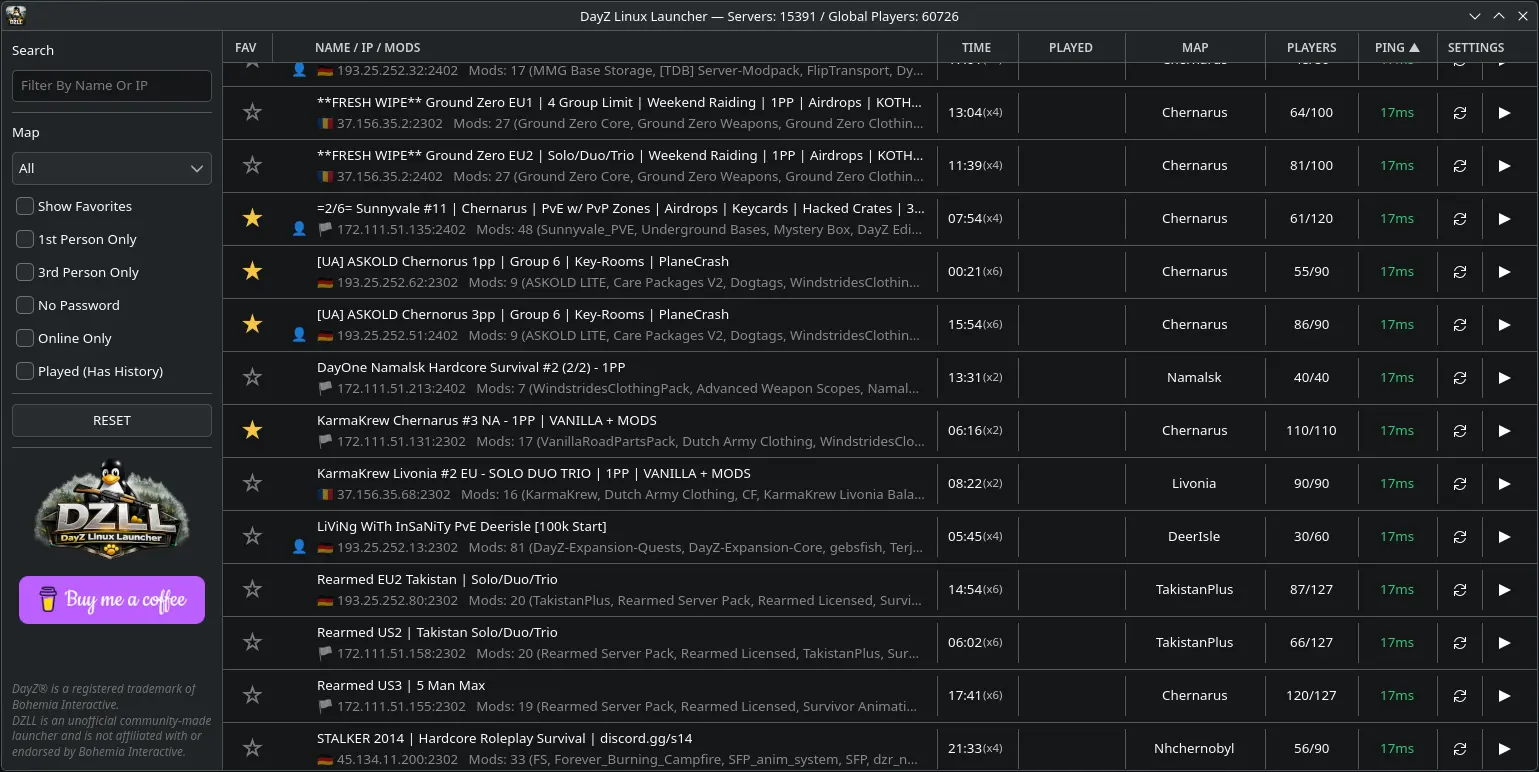
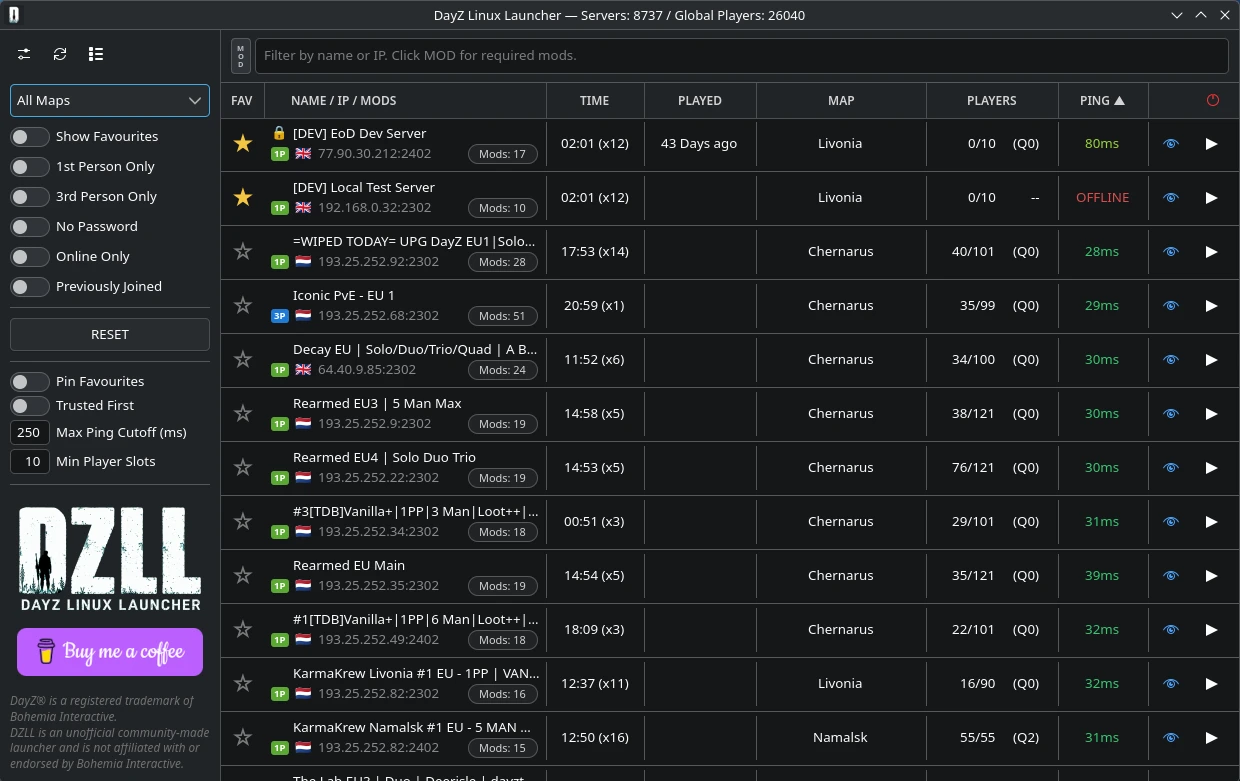
Update website for DZLL v0.3.0 beta

Changed region(s): [[0.0, 0.0, 1.0, 1.0], [0.7661, 0.1865, 0.7968, 0.2176]]

diff --git a/documentation.html b/documentation.html
@@ -4,20 +4,16 @@
 <head>
     <meta charset="utf-8">
     <meta name="viewport" content="width=device-width, initial-scale=1.0, shrink-to-fit=no">
-    <title>DZLL — DayZ Linux Launcher</title>
+    <title>DZLL v0.3.0 Beta — DayZ Linux Launcher</title>
     <link rel="canonical" href="https://dzllauncher.uk/documentation.html">
     <meta property="og:url" content="https://dzllauncher.uk/documentation.html">
-    <meta name="twitter:title" content="DZLL - DayZ Linux Launcher">
+    <meta name="twitter:title" content="DZLL v0.3.0 Beta - DayZ Linux Launcher">
     <meta name="twitter:card" content="summary_large_image">
     <meta property="og:type" content="website">
-    <meta name="twitter:description" content="DZLL is a Linux-first DayZ launcher with fast server browsing, smoother mod handling, SteamCMD integration, and optional suspicious server protection.">
+    <meta name="twitter:description" content="DZLL v0.3.0 Beta is free, source-available community software for Linux DayZ players, with native Steam Workshop mod handling.">
     <meta property="og:image" content="https://dzllauncher.uk/assets/img/OG-Banner.webp">
-    <meta name="description" content="DZLL is a clean, Linux-first DayZ launcher with fast server browsing, smoother mod handling, and open-source development.">
-    <link rel="icon" type="image/webp" sizes="412x403" href="assets/img/icon.webp">
-    <link rel="icon" type="image/webp" sizes="412x403" href="assets/img/icon.webp" media="(prefers-color-scheme: dark)">
-    <link rel="icon" type="image/webp" sizes="412x403" href="assets/img/icon.webp">
-    <link rel="icon" type="image/webp" sizes="412x403" href="assets/img/icon.webp" media="(prefers-color-scheme: dark)">
-    <link rel="icon" type="image/webp" sizes="412x403" href="assets/img/icon.webp">
+    <meta name="description" content="DZLL v0.3.0 Beta is a Linux-first DayZ launcher with native Steam Workshop mod handling and source-available community development.">
+    <link rel="icon" type="image/png" sizes="512x512" href="assets/img/dzll-icon.png">
     <link rel="stylesheet" href="assets/bootstrap/css/bootstrap.min.css">
     <link rel="stylesheet" href="assets/css/styles.min.css">
 </head>
@@ -25,21 +21,21 @@
 <body style="font-family: Exo, sans-serif;">
     <header class="site-header">
         <div class="container site-header-inner" style="font-family: Exo, sans-serif;"><a class="brand" href="index.html#">
-                <div class="brand-mark"><img width="42" height="42" src="assets/img/icon.webp" style="border-style: none;"></div>
+                <div class="brand-mark"><img width="42" height="42" src="assets/img/dzll-icon.png" style="border-style: none;"></div>
                 <div class="brand-text"><strong style="color: rgb(244, 247, 248);font-family: Exo, sans-serif;">DZLL</strong><span style="font-family: Exo, sans-serif;">DayZ Linux Launcher</span></div>
             </a>
             <nav class="nav"><a href="index.html#features">Features</a><a href="index.html#preview">Preview</a><a href="index.html#download">Download</a><a href="index.html#support">Support</a><a href="documentation.html">Documentation</a></nav>
-            <div class="header-actions"><a class="btn btn-secondary" role="button" href="https://github.com/Berry-Dingle/DayZ-Linux-Launcher" target="_blank" rel="noopener">GitHub</a><a class="btn btn-primary" role="button" href="https://github.com/Berry-Dingle/DayZ-Linux-Launcher/releases" target="_blank" rel="noopener">Download</a></div>
+            <div class="header-actions"><a class="btn btn-secondary" role="button" href="https://github.com/Berry-Dingle/DayZ-Linux-Launcher" target="_blank" rel="noopener">GitHub</a><a class="btn btn-primary" role="button" href="https://github.com/Berry-Dingle/DayZ-Linux-Launcher/releases/tag/v0.3.0-beta" target="_blank" rel="noopener">Download</a></div>
         </div>
     </header>
     <main id="top">
         <section class="hero">
             <div class="container">
                 <div class="hero-copy" style="font-family: Exo, sans-serif;">
-                    <div class="eyebrow"><span>Open source • Linux-first • StREAMLINED</span></div>
+                    <div class="eyebrow"><span>v0.3.0 Beta • Linux-first • StREAMLINED</span></div>
                     <h1>DayZ Linux Launcher (DZLL) Documentation</h1>
                     <p>This is the manual page for DayZ Linux Launcher, In this manual you will find everything you need<br>to use the app and find your favourite servers. </p>
-                    <div class="hero-actions"><a class="btn btn-primary" role="button" href="https://github.com/Berry-Dingle/DayZ-Linux-Launcher/releases" target="_blank" rel="noopener">Download DZLL</a><a class="btn btn-secondary" role="button" href="https://github.com/Berry-Dingle/DayZ-Linux-Launcher" target="_blank" rel="noopener">View on GitHub</a><a class="btn btn-subtle" role="button" href="https://buymeacoffee.com/berry.dingle" target="_blank" rel="noopener">Buy Me a Coffee</a></div>
+                    <div class="hero-actions"><a class="btn btn-primary" role="button" href="https://github.com/Berry-Dingle/DayZ-Linux-Launcher/releases/tag/v0.3.0-beta" target="_blank" rel="noopener">Download DZLL</a><a class="btn btn-secondary" role="button" href="https://github.com/Berry-Dingle/DayZ-Linux-Launcher" target="_blank" rel="noopener">View on GitHub</a><a class="btn btn-subtle" role="button" href="https://buymeacoffee.com/berry.dingle" target="_blank" rel="noopener">Buy Me a Coffee</a></div>
                     <div class="hero-meta"></div>
                 </div>
             </div>
@@ -54,15 +50,14 @@
                     <div>
                         <hr class="h-ruler">
                         <div class="eyebrow"><span><span style="color: rgb(244, 247, 248);">First Launch Overview</span></span></div>
-                        <p><br>When you start DZLL, it performs a short startup sequence:<br><br><strong>1. Loads your saved settings</strong>&nbsp;(filters, launch options, mod handling preferences, etc.).<br><strong>2. Loads the server database</strong>&nbsp;(servers.db) generated by DZLL-Forge.<br><strong>3. Fetches and loads the blocklist</strong>&nbsp;(blocklist.json, v2) used to hide or warn about suspicious servers (depending on your settings).<br><strong>4. Builds the server list UI</strong>&nbsp;and applies:<br><br></p>
+                        <p><br>When you start DZLL, it performs a short startup sequence:<br><br><strong>1. Loads your saved settings</strong>&nbsp;(filters, launch options, mod handling preferences, etc.).<br><strong>2. Loads the server database</strong>&nbsp;(servers.db) generated by DZLL-Forge.<br><strong>3. Builds the server list UI</strong>&nbsp;and applies:<br><br></p>
                         <ul>
                             <li>Search Text</li>
                             <li>Filter Toggles</li>
                             <li>Sort Mode</li>
                             <li>Favorites Filter (if enabled)</li>
-                            <li>Blocklist Visibility Rules (if enabled<br><br><br></li>
                         </ul>
-                        <div class="eyebrow"><span>Data Sources: Server DB and Blocklist</span></div>
+                        <div class="eyebrow"><span>Data Source: Curated Server Database</span></div>
                     </div>
                     <p><br><strong>Server database (servers.db)</strong><br>DZLL reads a prebuilt database created by <strong>DZLL-Forge</strong>. This DB contains:<br><br></p>
                     <ul>
@@ -74,17 +69,6 @@
                         <li><strong>Server Mod List</strong>&nbsp;(Workshop IDs + Names) When Available</li>
                         <li>DZLL does not scrape or “hunt” servers itself. It trusts the curated DB output</li>
                     </ul>
-                    <p><br><strong>Blocklist (blocklist.json v2)</strong><br>DZLL also loads a blocklist file used to classify servers as:<br><br></p>
-                    <ul>
-                        <li><strong>Allowed</strong></li>
-                        <li><strong>Soft-blocked</strong>&nbsp;(hidden when blocklist filtering is enabled)</li>
-                        <li><strong>Hard-blocked / IP-hard-blocked</strong>&nbsp;(always warns before joining if blocklist is loaded)</li>
-                    </ul>
-                    <p><br>Blocklist behavior is designed to be <strong>fail-open</strong>:<br><br></p>
-                    <ul>
-                        <li>If the blocklist can’t be fetched or parsed, DZLL still runs and shows servers normally</li>
-                    </ul>
-                    <div class="img-servers"><img class="cmd" src="assets/img/servers-bl-loaded.png" width="710" height="174"><span class="figure-desc">Fig 1. Example of the launcher populated with servers and blocklist loaded.<br><br><br><br></span></div>
                     <div class="eyebrow"><span>Main Window: Server List</span></div>
                     <p><br><strong>The main window is centered around the server list.</strong><br>Each row typically includes:<br><br></p>
                     <ul>
@@ -107,9 +91,9 @@
                         <li>quick lookup by server name/map</li>
                         <li>locating a specific IP:PORT quickly</li>
                     </ul>
-                    <p><strong>Exact IP:PORT search has a special role</strong> for blocked servers:<br><br></p>
+                    <p><strong>Exact IP:PORT search has a special role</strong> when you need to locate a specific server:<br><br></p>
                     <ul>
-                        <li>If blocklist filtering hides a server, typing the exact IP:PORT can reveal it (see Blocklist section below).<br><br><br><br></li>
+                        <li>Typing the exact IP:PORT can locate that server directly.<br><br><br><br></li>
                     </ul>
                     <div class="eyebrow"><span>Filters and Favorites</span></div>
                     <p><br><strong>Common filters</strong>DZLL supports several filter toggles (the exact set depends on your build, but commonly includes):<br><br></p>
@@ -132,6 +116,42 @@
                         <li>Keep your regular servers pinned by habit</li>
                     </ul>
                     <p>Favorites are saved locally and persist across restarts<br><br><br><br></p>
+                    <div class="eyebrow"><span>Installation and Requirements</span></div>
+                    <p><br>Download DZLL v0.3.0 Beta from <strong>GitHub Releases</strong>. Fedora RPM and Ubuntu DEB packages are included, with SHA256 checksums provided.<br><br></p>
+                    <ul>
+                        <li><strong>Native Steam</strong> with DayZ installed is required</li>
+                        <li>Flatpak Steam is unsupported</li>
+                        <li>Launch DayZ from Steam at least once before using DZLL</li>
+                        <li>SteamCMD is optional and only needed for Advanced SteamCMD Fallback troubleshooting</li>
+                        <li>Normal users should not need SteamCMD credentials</li>
+                    </ul>
+                    <div class="eyebrow"><span>Settings</span></div>
+                    <p><br>Settings can be adjusted later as your setup changes. Important options include:<br><br></p>
+                    <ul>
+                        <li>The <strong>Steam Client Workshop</strong> backend is the default and recommended mod handler</li>
+                        <li>Enabling <strong>Advanced SteamCMD Fallback</strong> reveals its troubleshooting settings</li>
+                        <li>Native Steam and Workshop path autodetection</li>
+                        <li><strong>Skip DayZ Launcher</strong> and <strong>Minimise DayZ Launcher</strong></li>
+                        <li>Additional launch parameters</li>
+                        <li>Server Companion visibility and behaviour</li>
+                    </ul>
+                    <div class="eyebrow"><span>Mod Manager</span></div>
+                    <p><br>Mod Manager shows locally detected Workshop mods and distinguishes subscribed Workshop content from local-only files.<br><br></p>
+                    <ul>
+                        <li>Unsubscribe selected Workshop mods</li>
+                        <li>Unsubscribe all confirmed Workshop mods</li>
+                        <li>Clean up verified local-only files</li>
+                    </ul>
+                    <p>Steam must be running and online for Workshop checks and management actions. Unsubscribing Workshop mods and cleaning up local-only files are separate operations. If Steam is offline or its state cannot be confirmed, DZLL does not treat the content as safe for cleanup.<br><br></p>
+                    <div class="eyebrow"><span>Server Companion</span></div>
+                    <p><br>Server Companion monitors the selected or joined server and can be shown alongside the server list.<br><br></p>
+                    <ul>
+                        <li>Shows live status, ping, players, and queue information where available</li>
+                        <li>Helps track server availability and restarts where detectable</li>
+                        <li>Can be docked or undocked</li>
+                        <li>Can offer a Join action from the companion panel when the server is available</li>
+                    </ul>
+                    <p>Restart and shutdown alerts depend on the server data available to DZLL and should not be treated as perfect detection.<br><br><br><br></p>
                     <div class="eyebrow"><span><span style="color: rgb(244, 247, 248);">Live Refresh and Updating the List</span></span></div>
                     <p><br><strong>DZLL refreshes and updates in a way designed to avoid UI jitter and “list jumping”.</strong><br>Typical behavior:<br><br></p>
                     <ul>
@@ -140,59 +160,29 @@
                         <li>If a server becomes unavailable/offline, DZLL reflects that in its display.</li>
                     </ul>
                     <p>If your build shows “counts in title bar” (servers loaded / players online), these update when refresh updates are applied.<br><br><br><br></p>
-                    <div class="eyebrow"><span>Blocklist: Hiding and Warnings</span></div>
-                    <p><br>The blocklist is designed to protect users from suspicious servers while still allowing power-users to override intentionally<br><br><strong>Blocklist filtering</strong><br>If <strong>Enable Blocklist Filtering</strong> is ON:<br><br></p>
-                    <ul>
-                        <li>Soft-blocked and hard-blocked servers are hidden from the list</li>
-                    </ul>
-                    <p>If it’s OFF:<br><br></p>
-                    <ul>
-                        <li>The list behaves normally (servers are shown)</li>
-                    </ul>
-                    <p><strong>Exact IP:PORT reveal</strong>Even if a server is hidden by blocklist filtering:<br><br></p>
-                    <ul>
-                        <li>typing the exact IP:PORT into search can reveal it</li>
-                    </ul>
-                    <p>This is intended as an “I know what I’m doing” escape hatch<br><br><strong>Join warnings (hard / ip-hard)</strong><br>If the blocklist is loaded and DZLL classifies the selected server as:<br><br></p>
-                    <ul>
-                        <li><strong>Hard-blocked</strong>, or</li>
-                        <li>IP-hard-blocked</li>
-                    </ul>
-                    <p>Then DZLL will show a warning overlay <strong>every time you press Join</strong><br><br></p>
-                    <ul>
-                        <li>You can <strong>Cancel</strong> to back out</li>
-                        <li>You can <strong>Join anyway</strong> if you accept the risk<br><br></li>
-                    </ul><img class="cmd" src="assets/img/warning-box.png" width="356" height="260"><span class="figure-desc">Fig 3. An example of the warning overlay for suspicious servers<br><br><br><br></span>
                     <div class="eyebrow"><span>Joining a Server: End-to-End Workflow</span></div>
                     <p><br>When you press <strong>Join</strong>, DZLL runs a “preflight” and then performs the join flow.<br><br><strong>Join preflight</strong><br>DZLL checks:<br><br></p>
                     <ul>
                         <li>The server address is valid (IP:PORT)</li>
-                        <li>The server isn’t blocked (or you confirmed the warning if it is)</li>
                         <li>Whether mod handling is required (server has mod list and mod handling is enabled)</li>
-                        <li>Whether Steam / DayZ launch prerequisites are present (as applicable)</li>
+                        <li>Native Steam is installed and available (required; Flatpak Steam is unsupported)</li>
                     </ul>
                     <p><strong>If the server has no mods (or mod handling is disabled)</strong><br>DZLL launches DayZ via Steam using a connect string:<br><br></p>
                     <ul>
                         <li>Steam starts DayZ</li>
-                        <li>DayZ joins the server using -connect=IP:PORT (and related params), after user clicks play<br>in the DayZ official launcher.<br><br></li>
+                        <li>DZLL launches DayZ through native Steam using the server connect parameters. In normal use DZLL can skip the official DayZ Launcher; if you change the Launch settings, DZLL can use or minimise the DayZ Launcher as part of the launch flow.<br><br></li>
                     </ul>
                     <p><strong>If the server requires mods (mod handling enabled)</strong><br>DZLL runs the <strong>mod workflow</strong>:<br><br></p>
                     <ul>
                         <li>Reads required mod list for the server (Workshop IDs)</li>
-                        <li>Uses <strong>SteamCMD</strong> to download/update the required Workshop mods</li>
+                        <li>Uses the <strong>Steam Client Workshop backend</strong> by default to download/update required mods</li>
                         <li>Builds <strong>symlinks</strong> in the DayZ Launcher “watch folder” inside the Proton prefix</li>
-                        <li>Ensures DayZ Launcher preset/state is ready (so the DayZ Launcher detects mods properly)</li>
+                        <li>Prepares the launcher/watch-folder state for compatibility with the required mod setup and launcher-related settings</li>
                         <li>Launches DayZ with the server connect details</li>
                     </ul>
-                    <p>The goal is to reliably match the way the official DayZ Launcher expects mods to be discovered/loaded on Proton<br><br></p>
-                    <div class="join-flow">
-                        <div class="row text-center cmd-row">
-                            <div class="col col-xl-5"><img class="img-fluid float-start cmd" src="assets/img/cmd-login.png">
-                                <div class="cmd-img-txt"><span class="figure-desc"><br><br>Fig 4. An example of the SteamCMD Login Panel<br><br><br><br></span></div>
-                            </div>
-                            <div class="col col-xl-7"><img class="img-fluid float-start cmd" src="assets/img/cmd-mod-install.png"><span class="figure-desc">Fig 5. SteamCMD mod downloads<br><br><br><br></span></div>
-                        </div>
-                    </div>
+                    <p>The goal is to reliably match the way the official DayZ Launcher expects mods to be discovered/loaded on Proton. Users normally do not need SteamCMD credentials.<br><br></p>
+                    <div class="eyebrow"><span>Advanced Troubleshooting Fallback</span></div>
+                    <p><br>SteamCMD is not the normal or recommended backend. Use it only when native Steam Workshop handling cannot resolve a specific issue. SteamCMD credentials may be requested only for this optional fallback path; they are not part of normal setup.<br><br></p>
                 </div>
             </div>
         </section>
@@ -201,7 +191,7 @@
                 <div class="support-card">
                     <div class="eyebrow"><span>Support</span></div>
                     <h2>Support Development</h2>
-                    <p style="max-width:70ch;margin-top:16px;"> DZLL is free and open source. If you find it useful and want to help keep development moving, you can support the project with a donation or star the repository on GitHub. </p>
+                    <p style="max-width:70ch;margin-top:16px;"> DZLL is free, source-available community software licensed under the DZLL Community Source Licence v1.0. It may not be sold, paywalled, monetised, bundled into paid services, or used for paid server promotion, paid placement, advertising, affiliate schemes, or referral schemes. Modified versions must remain free, include the licence, keep attribution, and clearly state that they are unofficial. </p>
                     <div class="support-actions" style="margin-top:24px;"><a class="btn btn-primary" role="button" href="https://buymeacoffee.com/berry.dingle" target="_blank" rel="noopener">Buy Me a Coffee</a><a class="btn btn-secondary" role="button" href="https://github.com/Berry-Dingle/DayZ-Linux-Launcher" target="_blank" rel="noopener">Star on GitHub</a></div>
                 </div>
             </div>
@@ -209,7 +199,7 @@
     </main>
     <footer class="site-footer">
         <div class="container footer-inner">
-            <div class="footer-brand"><strong>DZLL</strong><span>DayZ Linux Launcher • Built for Linux DayZ Players</span><span class="copyright">© 2026 DZLL. Free and Open Source.</span></div>
+            <div class="footer-brand"><strong>DZLL</strong><span>DayZ Linux Launcher • v0.3.0 Beta</span><span class="copyright">© 2026 DZLL. Free, source-available community software.</span><small style="display:block;max-width:75ch;margin-top:12px;color:var(--soft);">DZLL is an independent community project and is not affiliated with, endorsed by, sponsored by, or authorized by Bohemia Interactive a.s. Bohemia Interactive, DAYZ, and all associated logos and designs are trademarks or registered trademarks of Bohemia Interactive a.s. All other trademarks are the property of their respective owners.</small></div>
             <div class="footer-links"><a href="https://dzllauncher.uk" target="_blank" rel="noopener">dzllauncher.uk</a><a href="https://github.com/Berry-Dingle/dzllauncher.uk" target="_blank" rel="noopener">Site Repo</a><a href="https://github.com/Berry-Dingle/DayZ-Linux-Launcher" target="_blank" rel="noopener">DZLL Repo</a><a href="https://buymeacoffee.com/berry.dingle" target="_blank" rel="noopener">Buy Me a Coffee</a></div>
         </div>
     </footer>

diff --git a/index.html b/index.html
@@ -4,15 +4,15 @@
 <head>
     <meta charset="utf-8">
     <meta name="viewport" content="width=device-width, initial-scale=1.0, shrink-to-fit=no">
-    <title>DZLL — DayZ Linux Launcher</title>
+    <title>DZLL v0.3.0 Beta — DayZ Linux Launcher</title>
     <link rel="canonical" href="https://dzllauncher.uk/">
     <meta property="og:url" content="https://dzllauncher.uk/">
-    <meta name="twitter:title" content="DZLL - DayZ Linux Launcher">
+    <meta name="twitter:title" content="DZLL v0.3.0 Beta - DayZ Linux Launcher">
     <meta name="twitter:card" content="summary_large_image">
     <meta property="og:type" content="website">
-    <meta name="twitter:description" content="DZLL is a Linux-first DayZ launcher with fast server browsing, smoother mod handling, SteamCMD integration, and optional suspicious server protection.">
+    <meta name="twitter:description" content="DZLL v0.3.0 Beta is free, source-available community software for Linux DayZ players, with native Steam Workshop mod handling.">
     <meta property="og:image" content="https://dzllauncher.uk/assets/img/OG-Banner.webp">
-    <meta name="description" content="DZLL is a clean, Linux-first DayZ launcher with fast server browsing, smoother mod handling, and open-source development.">
+    <meta name="description" content="DZLL v0.3.0 Beta is a Linux-first DayZ launcher with native Steam Workshop mod handling, fast server browsing, and source-available community development.">
     <script type="application/ld+json">
         {
             "@context": "http://schema.org",
@@ -21,11 +21,7 @@
             "url": "https://dzllauncher.uk/"
         }
     </script>
-    <link rel="icon" type="image/webp" sizes="412x403" href="assets/img/icon.webp">
-    <link rel="icon" type="image/webp" sizes="412x403" href="assets/img/icon.webp" media="(prefers-color-scheme: dark)">
-    <link rel="icon" type="image/webp" sizes="412x403" href="assets/img/icon.webp">
-    <link rel="icon" type="image/webp" sizes="412x403" href="assets/img/icon.webp" media="(prefers-color-scheme: dark)">
-    <link rel="icon" type="image/webp" sizes="412x403" href="assets/img/icon.webp">
+    <link rel="icon" type="image/png" sizes="512x512" href="assets/img/dzll-icon.png">
     <link rel="stylesheet" href="assets/bootstrap/css/bootstrap.min.css">
     <link rel="stylesheet" href="assets/css/styles.min.css">
 </head>
@@ -33,22 +29,22 @@
 <body style="font-family: Exo, sans-serif;">
     <header class="site-header">
         <div class="container site-header-inner" style="font-family: Exo, sans-serif;"><a class="brand" href="#">
-                <div class="brand-mark"><img width="42" height="42" src="assets/img/icon.webp" style="border-style: none;"></div>
+                <div class="brand-mark"><img width="42" height="42" src="assets/img/dzll-icon.png" style="border-style: none;"></div>
                 <div class="brand-text"><strong style="color: rgb(244, 247, 248);font-family: Exo, sans-serif;">DZLL</strong><span style="font-family: Exo, sans-serif;">DayZ Linux Launcher</span></div>
             </a>
             <nav class="nav"><a href="#features">Features</a><a href="#preview">Preview</a><a href="#download">Download</a><a href="#support">Support</a><a href="documentation.html">Documentation</a></nav>
-            <div class="header-actions"><a class="btn btn-secondary" role="button" href="https://github.com/Berry-Dingle/DayZ-Linux-Launcher" target="_blank" rel="noopener">GitHub</a><a class="btn btn-primary" role="button" href="https://github.com/Berry-Dingle/DayZ-Linux-Launcher/releases" target="_blank" rel="noopener">Download</a></div>
+            <div class="header-actions"><a class="btn btn-secondary" role="button" href="https://github.com/Berry-Dingle/DayZ-Linux-Launcher" target="_blank" rel="noopener">GitHub</a><a class="btn btn-primary" role="button" href="https://github.com/Berry-Dingle/DayZ-Linux-Launcher/releases/tag/v0.3.0-beta" target="_blank" rel="noopener">Download</a></div>
         </div>
     </header>
     <main id="top">
         <section class="hero">
             <div class="container">
                 <div class="hero-copy" style="font-family: Exo, sans-serif;">
-                    <div class="eyebrow"><span>Open source • Linux-first • StREAMLINED</span></div>
+                    <div class="eyebrow"><span>v0.3.0 Beta • Linux-first • StREAMLINED</span></div>
                     <h1>The DayZ Launcher Linux Players Deserve</h1>
-                    <p> Browse servers, handle mods, and launch DayZ on Linux with a cleaner, faster workflow.<br>Built for Proton, made for players, and fully open source. </p>
-                    <div class="hero-actions"><a class="btn btn-primary" role="button" href="https://github.com/Berry-Dingle/DayZ-Linux-Launcher/releases" target="_blank" rel="noopener">Download DZLL</a><a class="btn btn-secondary" role="button" href="https://github.com/Berry-Dingle/DayZ-Linux-Launcher" target="_blank" rel="noopener">View on GitHub</a><a class="btn btn-subtle" role="button" href="https://buymeacoffee.com/berry.dingle" target="_blank" rel="noopener">Buy Me a Coffee</a></div>
-                    <div class="hero-meta"><span>Free and open source</span><span>Hosted on GitHub</span><span>dzllauncher.uk</span></div>
+                    <p> Browse servers, handle mods, and launch DayZ on Linux with a cleaner, faster workflow.<br>Built for Proton and native Steam, with the Steam Client Workshop backend as the recommended mod path. </p>
+                    <div class="hero-actions"><a class="btn btn-primary" role="button" href="https://github.com/Berry-Dingle/DayZ-Linux-Launcher/releases/tag/v0.3.0-beta" target="_blank" rel="noopener">Download DZLL</a><a class="btn btn-secondary" role="button" href="https://github.com/Berry-Dingle/DayZ-Linux-Launcher" target="_blank" rel="noopener">View on GitHub</a><a class="btn btn-subtle" role="button" href="https://buymeacoffee.com/berry.dingle" target="_blank" rel="noopener">Buy Me a Coffee</a></div>
+                    <div class="hero-meta"><span>Free, source-available community software</span><span>Native Steam required</span><span>v0.3.0 Beta</span></div>
                 </div>
                 <div class="hero-image-wrap"><img class="img-fluid" width="1539" height="772" src="assets/img/screenshot-3.webp" alt="DZLL main launcher window showing the DayZ Linux Launcher server browser"></div>
             </div>
@@ -68,8 +64,8 @@
                     </article>
                     <article class="feature-card">
                         <div class="feature-icon"><span>02</span></div>
-                        <h3>SteamCMD Integration</h3>
-                        <p>Built around Linux workflows, with a smoother path for getting server requirements in place.</p>
+                        <h3>Native Steam Workshop</h3>
+                        <p>The Steam Client Workshop backend is the default and recommended way to prepare required mods.</p>
                     </article>
                     <article class="feature-card">
                         <div class="feature-icon"><span>03</span></div>
@@ -78,8 +74,8 @@
                     </article>
                     <article class="feature-card">
                         <div class="feature-icon"><span>04</span></div>
-                        <h3>Blocklist Protection</h3>
-                        <p>Optional filtering and clear warnings help avoid suspicious servers without getting in your way.</p>
+                        <h3>Curated Server Data</h3>
+                        <p>Browse server information from DZLL's curated database with useful search, filter, and sorting tools.</p>
                     </article>
                     <article class="feature-card">
                         <div class="feature-icon"><span>05</span></div>
@@ -88,8 +84,8 @@
                     </article>
                     <article class="feature-card">
                         <div class="feature-icon"><span>06</span></div>
-                        <h3>Free and Open Source</h3>
-                        <p>Transparent, community-friendly, and hosted on GitHub with optional support through donations.</p>
+                        <h3>Source-Available Community Software</h3>
+                        <p>Free to use, community-focused, and hosted on GitHub under the DZLL Community Source Licence v1.0.</p>
                     </article>
                 </div>
             </div>
@@ -108,8 +104,8 @@
                             <div class="preview-card"><strong>Mod Workflow</strong>
                                 <p>A cleaner path for preparing required content before launch.</p>
                             </div>
-                            <div class="preview-card"><strong>Safer Joining</strong>
-                                <p>Warnings and optional filtering for suspicious servers.</p>
+                            <div class="preview-card"><strong>Clear Server Details</strong>
+                                <p>See the available server information before you join.</p>
                             </div>
                         </div>
                     </div>
@@ -133,7 +129,7 @@
                         <article class="step-card">
                             <div class="step-number"><span>2</span></div>
                             <h3>Prepare Required Mods</h3>
-                            <p>DZLL streamlines the mod workflow through SteamCMD and launcher integration.</p>
+                            <p>DZLL uses native Steam Client Workshop handling by default. SteamCMD is an optional advanced troubleshooting fallback.</p>
                         </article>
                         <article class="step-card">
                             <div class="step-number"><span>3</span></div>
@@ -149,9 +145,9 @@
                 <div class="download-copy">
                     <div class="eyebrow"><span>Download</span></div>
                     <h2>Download DZLL</h2>
-                    <p> Get the latest release, browse the source code, or follow development on GitHub. </p>
+                    <p> Get DZLL v0.3.0 Beta from GitHub Releases. Fedora RPM and Ubuntu DEB packages are available, with SHA256 checksums provided. Native Steam is required; SteamCMD is optional and intended only for advanced troubleshooting. Flatpak Steam is unsupported. </p>
                 </div>
-                <div class="download-actions"><a class="btn btn-primary" role="button" href="https://github.com/Berry-Dingle/DayZ-Linux-Launcher/releases" target="_blank" rel="noopener">Latest Release</a><a class="btn btn-secondary" role="button" href="https://github.com/Berry-Dingle/DayZ-Linux-Launcher" target="_blank" rel="noopener">GitHub Repository</a></div>
+                <div class="download-actions"><a class="btn btn-primary" role="button" href="https://github.com/Berry-Dingle/DayZ-Linux-Launcher/releases/tag/v0.3.0-beta" target="_blank" rel="noopener">Latest Release</a><a class="btn btn-secondary" role="button" href="https://github.com/Berry-Dingle/DayZ-Linux-Launcher" target="_blank" rel="noopener">GitHub Repository</a></div>
             </div>
         </section>
         <section id="support" class="block">
@@ -159,7 +155,7 @@
                 <div class="support-card">
                     <div class="eyebrow"><span>Support</span></div>
                     <h2>Support Development</h2>
-                    <p style="max-width:70ch;margin-top:16px;"> DZLL is free and open source. If you find it useful and want to help keep development moving, you can support the project with a donation or star the repository on GitHub. </p>
+                    <p style="max-width:70ch;margin-top:16px;"> DZLL is free, source-available community software licensed under the DZLL Community Source Licence v1.0. It may not be sold, paywalled, monetised, bundled into paid services, or used for paid server promotion, paid placement, advertising, affiliate schemes, or referral schemes. Modified versions must remain free, include the licence, keep attribution, and clearly state that they are unofficial. </p>
                     <div class="support-actions" style="margin-top:24px;"><a class="btn btn-primary" role="button" href="https://buymeacoffee.com/berry.dingle" target="_blank" rel="noopener">Buy Me a Coffee</a><a class="btn btn-secondary" role="button" href="https://github.com/Berry-Dingle/DayZ-Linux-Launcher" target="_blank" rel="noopener">Star on GitHub</a></div>
                 </div>
             </div>
@@ -167,7 +163,7 @@
     </main>
     <footer class="site-footer">
         <div class="container footer-inner">
-            <div class="footer-brand"><strong>DZLL</strong><span>DayZ Linux Launcher • Built for Linux DayZ Players</span><span class="copyright">© 2026 DZLL. Free and Open Source.</span></div>
+            <div class="footer-brand"><strong>DZLL</strong><span>DayZ Linux Launcher • v0.3.0 Beta</span><span class="copyright">© 2026 DZLL. Free, source-available community software.</span><small style="display:block;max-width:75ch;margin-top:12px;color:var(--soft);">DZLL is an independent community project and is not affiliated with, endorsed by, sponsored by, or authorized by Bohemia Interactive a.s. Bohemia Interactive, DAYZ, and all associated logos and designs are trademarks or registered trademarks of Bohemia Interactive a.s. All other trademarks are the property of their respective owners.</small></div>
             <div class="footer-links"><a href="https://dzllauncher.uk" target="_blank" rel="noopener">dzllauncher.uk</a><a href="https://github.com/Berry-Dingle/dzllauncher.uk" target="_blank" rel="noopener">Site Repo</a><a href="https://github.com/Berry-Dingle/DayZ-Linux-Launcher" target="_blank" rel="noopener">DZLL Repo</a><a href="https://buymeacoffee.com/berry.dingle" target="_blank" rel="noopener">Buy Me a Coffee</a></div>
         </div>
     </footer>